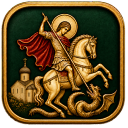
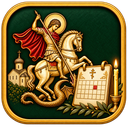
Publish calendar directory artwork through assets-only workflow

diff --git a/PROJECT_STATUS.md b/PROJECT_STATUS.md
@@ -1,5 +1,7 @@
 # Project status
 
+- Calendar directory artwork prepared for assets-only publication: green/gold Saint George icon with a prominent calendar, Russian calendar banners in 772×250 and 1544×500, icons 128/256. PNG dimensions/file limits/alpha and visual review PASS. The dedicated artwork workflow updates only those four files in SVN assets using existing credentials; runtime, readme, screenshots and version/tag remain unchanged. Publication is pending workflow verification. Last related commit: Publish calendar directory artwork through assets-only workflow (commit containing this status).
+
 - Version 1.3.78, georg-kloster-calendar-workshop slug/domain. PHP/JS/Gutenberg originals are US English; en_US works without a language pack. All four RU/DE/UK/PL catalogues retain 441 translations; month date/label contexts preserve grammatical forms. User text and API content remain unchanged; block/text languages remain independent. Approved WordPress.org packs retain priority.
 - Existing calendar/text/media APIs, canonical prayers, historical German editions and source-matched lection numbers preserved. Directory icons and seven screenshots remain in .wordpress-org. Obsolete legacy JSON and en_US translation files removed.
 - Checks: WP-CLI 441 English originals, four PO 441/441, translation preservation, en_US plus four locales in real PHP/JS/Gutenberg with month/language/context checks, full WordPress/SQLite+Edge reader/media/22-block suite, official Plugin Check 0 errors/0 warnings, PHP/JS syntax and Kalendar production build PASS.
